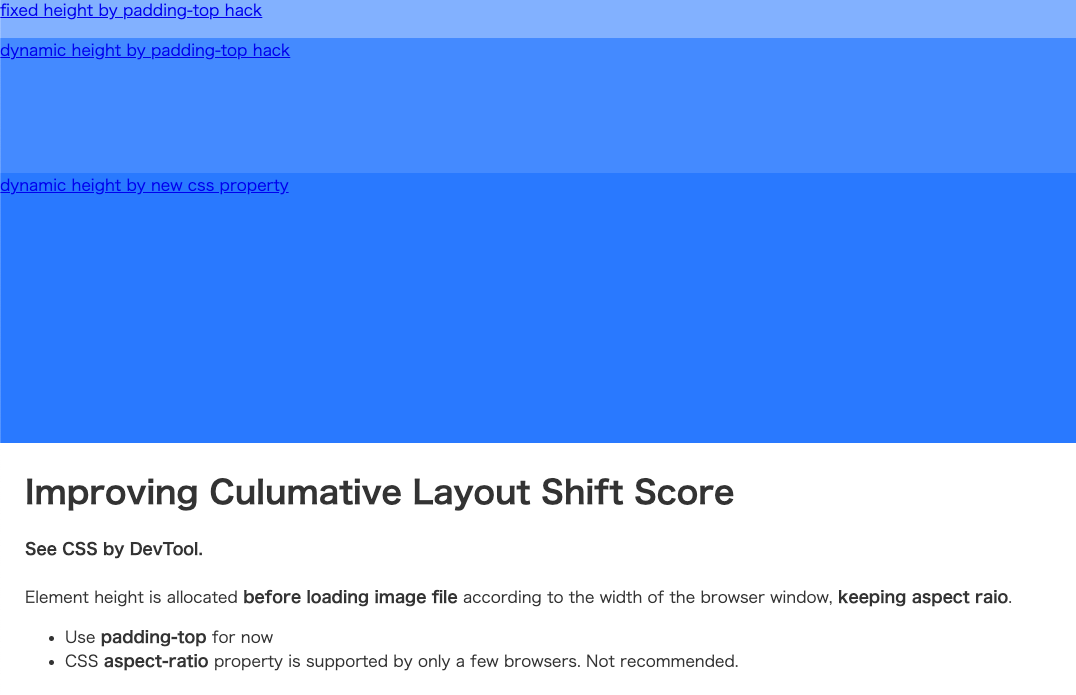
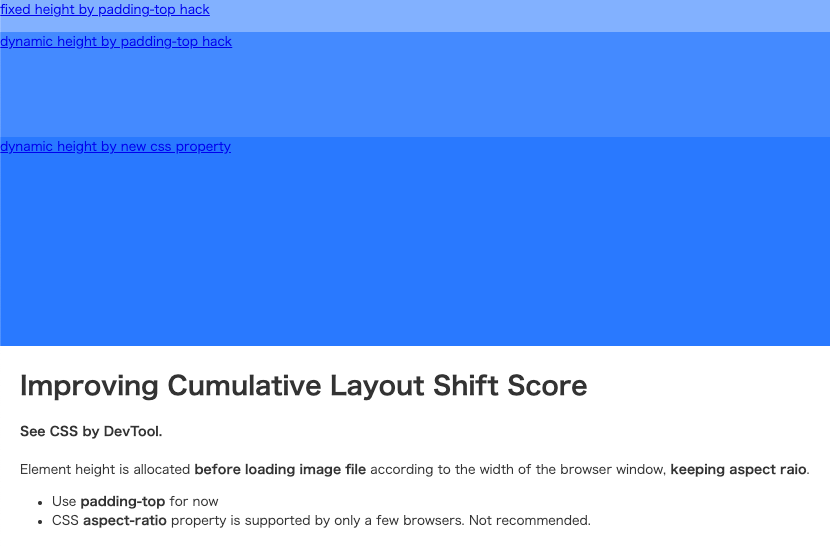
typo

diff --git a/cls.html b/cls.html
@@ -39,7 +39,7 @@
   </div>
 
   <div style="margin: 25px; color: #333">
-    <h1>Improving Culumative Layout Shift Score</h1>
+    <h1>Improving Cumulative Layout Shift Score</h1>
     <div><strong>See CSS by DevTool.</strong></div>
     <br>
     <div>Element height is allocated <b>before loading image file</b> according to the width of the browser window, <b>keeping aspect raio</b>.</div>
